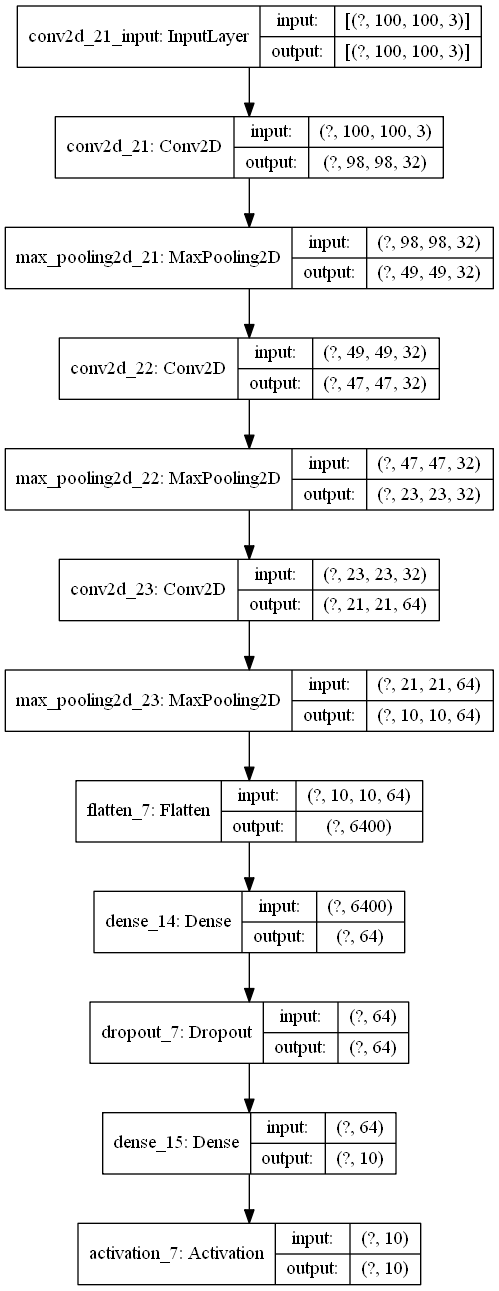
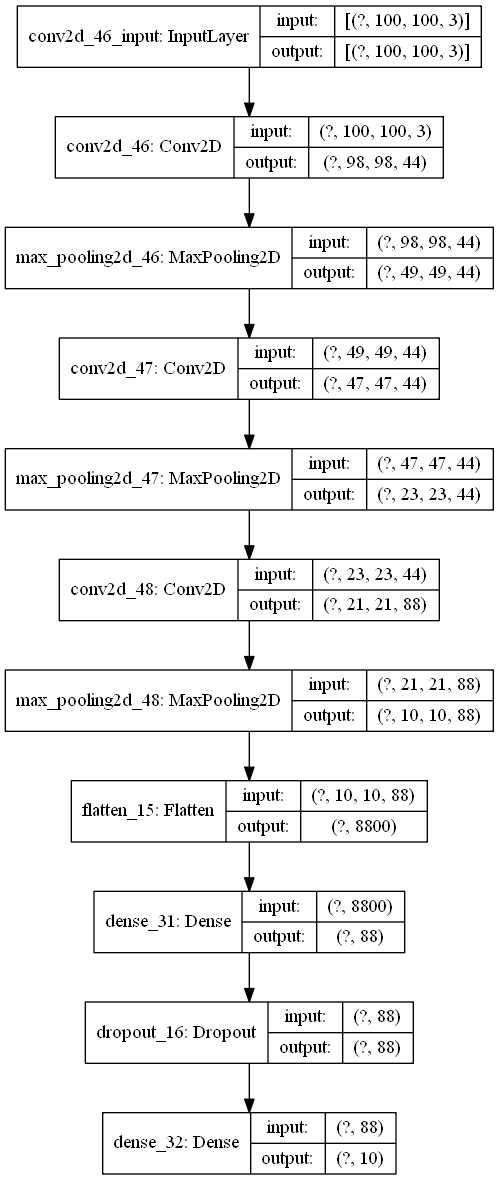
Slight modification to CNN node numbers.

Changed region(s): [[0.0, 0.0, 0.992, 1.0], [0.1202, 0.6712, 0.1503, 0.7017], [0.0902, 0.3051, 0.1202, 0.3356]]

diff --git a/model.py b/model.py
@@ -9,7 +9,7 @@ from keras.layers.core import *
 from tensorflow.keras import regularizers
 
 def prepareData(data, labels):
-    X_train, X_test, y_train, y_test = train_test_split(data, labels, train_size = 0.6)
+    X_train, X_test, y_train, y_test = train_test_split(data, labels, train_size = 0.7)
     y_train = np_utils.to_categorical(y_train, num_classes = 10)
     y_test = np_utils.to_categorical(y_test, num_classes = 10)
     return X_train, X_test, y_train, y_test
@@ -18,17 +18,17 @@ def defineModel():
     model = Sequential([
         #https://blog.keras.io/building-powerful-image-classification-models-using-very-little-data.html
         
-        Conv2D(32, (3, 3), input_shape = (100, 100, 3), activation = 'relu'),
+        Conv2D(44, (3, 3), input_shape = (100, 100, 3), activation = 'relu'),
         MaxPooling2D(pool_size = (2, 2)),
         
-        Conv2D(32, (3, 3), activation = 'relu'),
+        Conv2D(44, (3, 3), activation = 'relu'),
         MaxPooling2D(pool_size = (2, 2)),
         
-        Conv2D(64, (3, 3), activation = 'relu'),
+        Conv2D(88, (3, 3), activation = 'relu'),
         MaxPooling2D(pool_size = (2, 2)),
         
         Flatten(),
-        Dense(64, activation = 'relu'),
+        Dense(88, activation = 'relu'),
         Dropout(0.5),
         Dense(10, activation = 'sigmoid')
 
